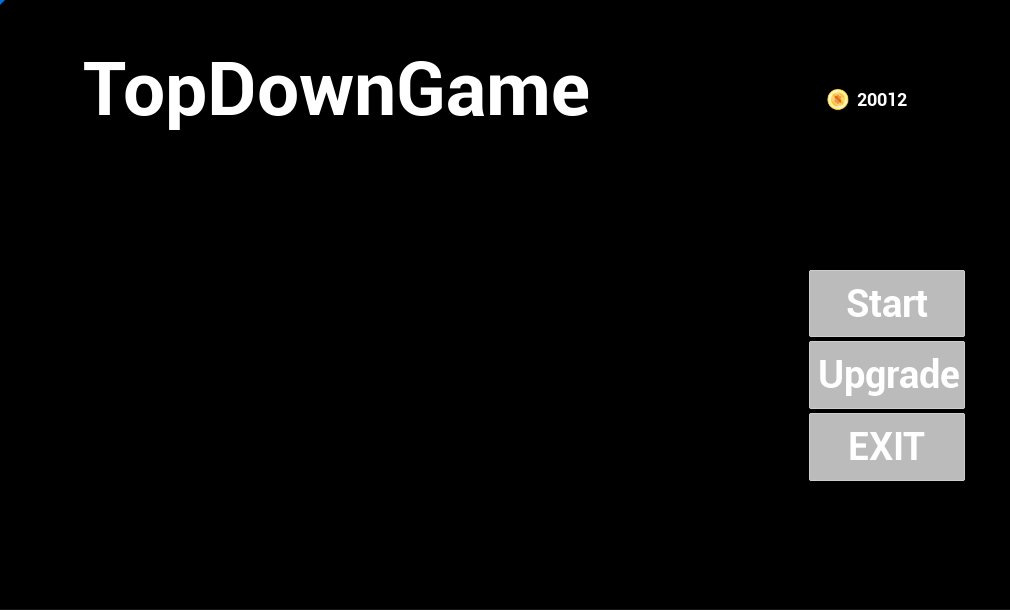
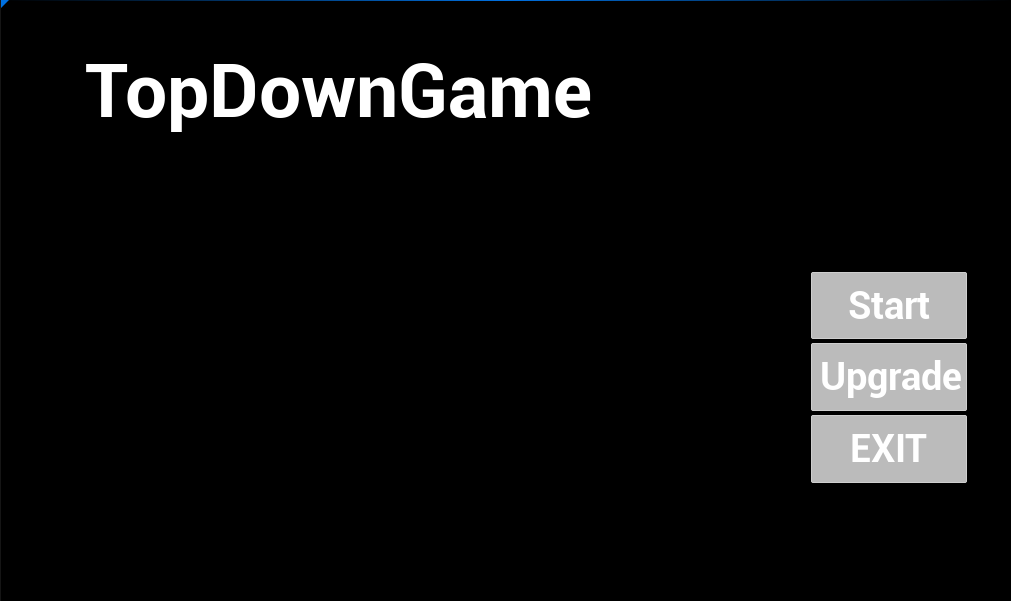
Feat : TopDown게임
타이틀 클래스에서 Gold를 제거하기
 +
ReadMe작성에 필요한 ScreenShot저장

Changed region(s): [[0.798, 0.4193, 0.9515, 0.8087], [0.0614, 0.0899, 0.5832, 0.2396], [0.798, 0.1498, 0.9208, 0.1797]]

diff --git a/TopDown/Source/TopDown/Private/HUD/TitleWidget.cpp b/TopDown/Source/TopDown/Private/HUD/TitleWidget.cpp
@@ -30,41 +30,6 @@ bool UTitleWidget::Initialize()
 	return true;
 }
 
-void UTitleWidget::NativeDestruct()
-{
-	Super::NativeDestruct();
-}
-
-void UTitleWidget::NativeConstruct()
-{
-	Super::NativeConstruct();
-
-	ATopDownPlayerState* PlayerCharacterState = Cast<ATopDownPlayerState>(GetOwningPlayerState());
-	if (PlayerCharacterState == nullptr)
-	{
-		return;
-	}
-
-	auto TopDownSaveGame = Cast<UTopDownSaveGame>(UGameplayStatics::LoadGameFromSlot(PlayerCharacterState->GetSaveSlotName(), 0));
-	if (TopDownSaveGame == nullptr)
-	{
-		TopDownSaveGame = GetMutableDefault<UTopDownSaveGame>();
-	}
-	Gold = TopDownSaveGame->Gold;
-	CharacterState = TopDownSaveGame->CharacterState;
-	SetGoldText();
-}
-
-void UTitleWidget::SetGoldText()
-{
-	if (GoldTextBlock)
-	{
-		const FString String = FString::Printf(TEXT("%d"), Gold);
-		const FText Text = FText::FromString(String);
-		GoldTextBlock->SetText(Text);
-	}
-}
-
 void UTitleWidget::OnStartClicked()
 {
 	UGameplayStatics::OpenLevel(this, TEXT("TopDownMap"));

diff --git a/TopDown/Source/TopDown/Public/HUD/TitleWidget.h b/TopDown/Source/TopDown/Public/HUD/TitleWidget.h
@@ -19,9 +19,6 @@ class TOPDOWN_API UTitleWidget : public UUserWidget
 
 protected:
 	virtual bool Initialize() override;
-	virtual void NativeDestruct() override;
-	virtual void NativeConstruct() override;
-	void SetGoldText();
 private:
 	UFUNCTION()
 	void OnStartClicked();
@@ -41,13 +38,4 @@ private:
 
 	UPROPERTY(meta = (BindWidget))
 	UButton* ExitButton;
-
-	UPROPERTY()
-	int32 Gold;
-
-	UPROPERTY()
-	FCharacterState CharacterState;
-
-	UPROPERTY(meta = (BindWidget))
-	UTextBlock* GoldTextBlock;
 };
